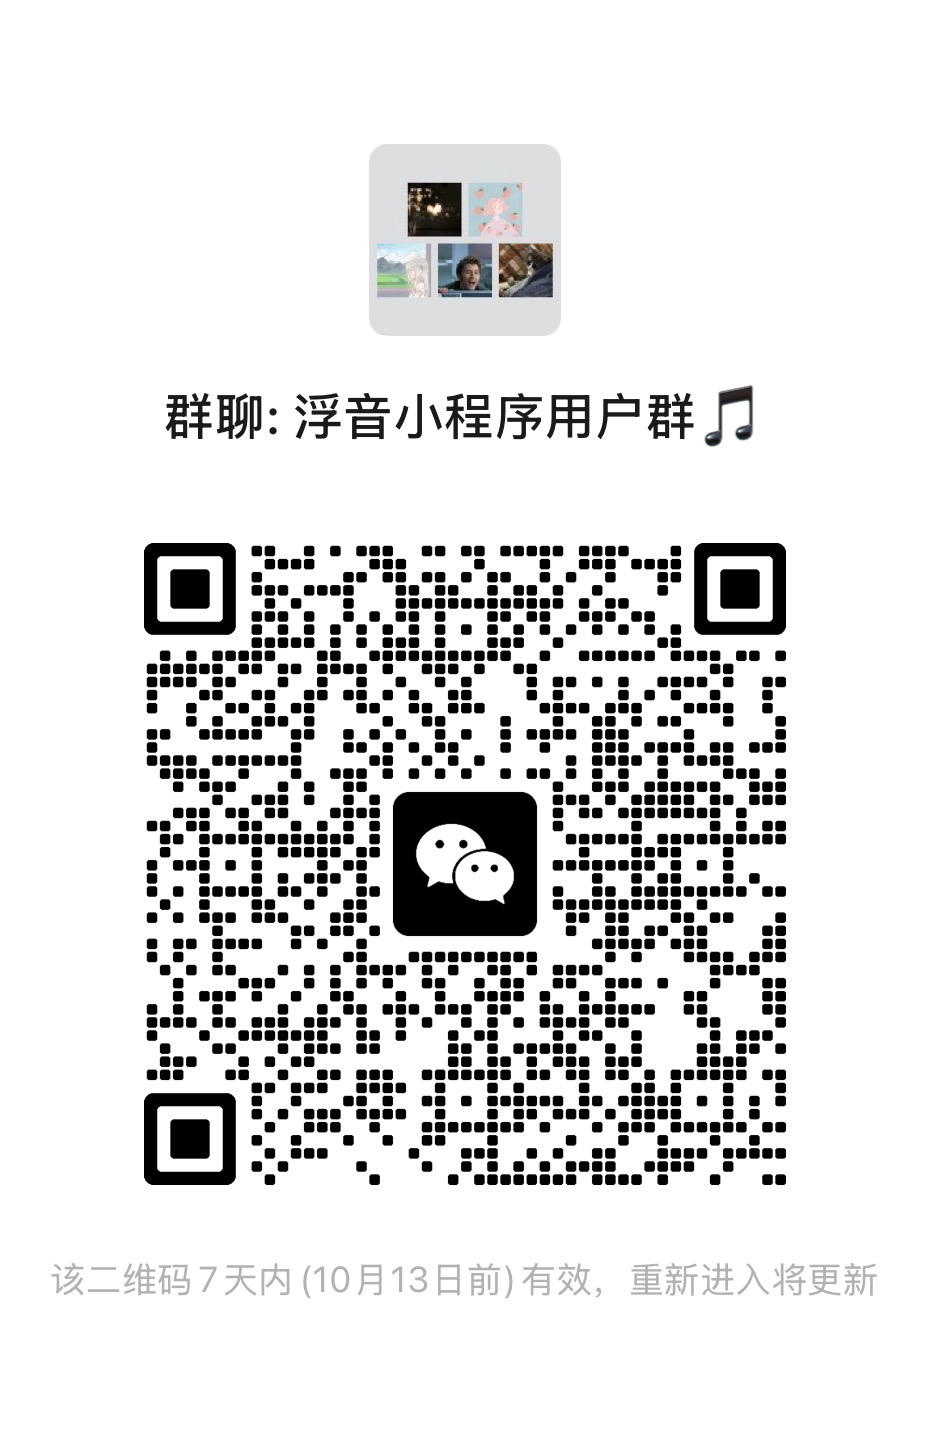
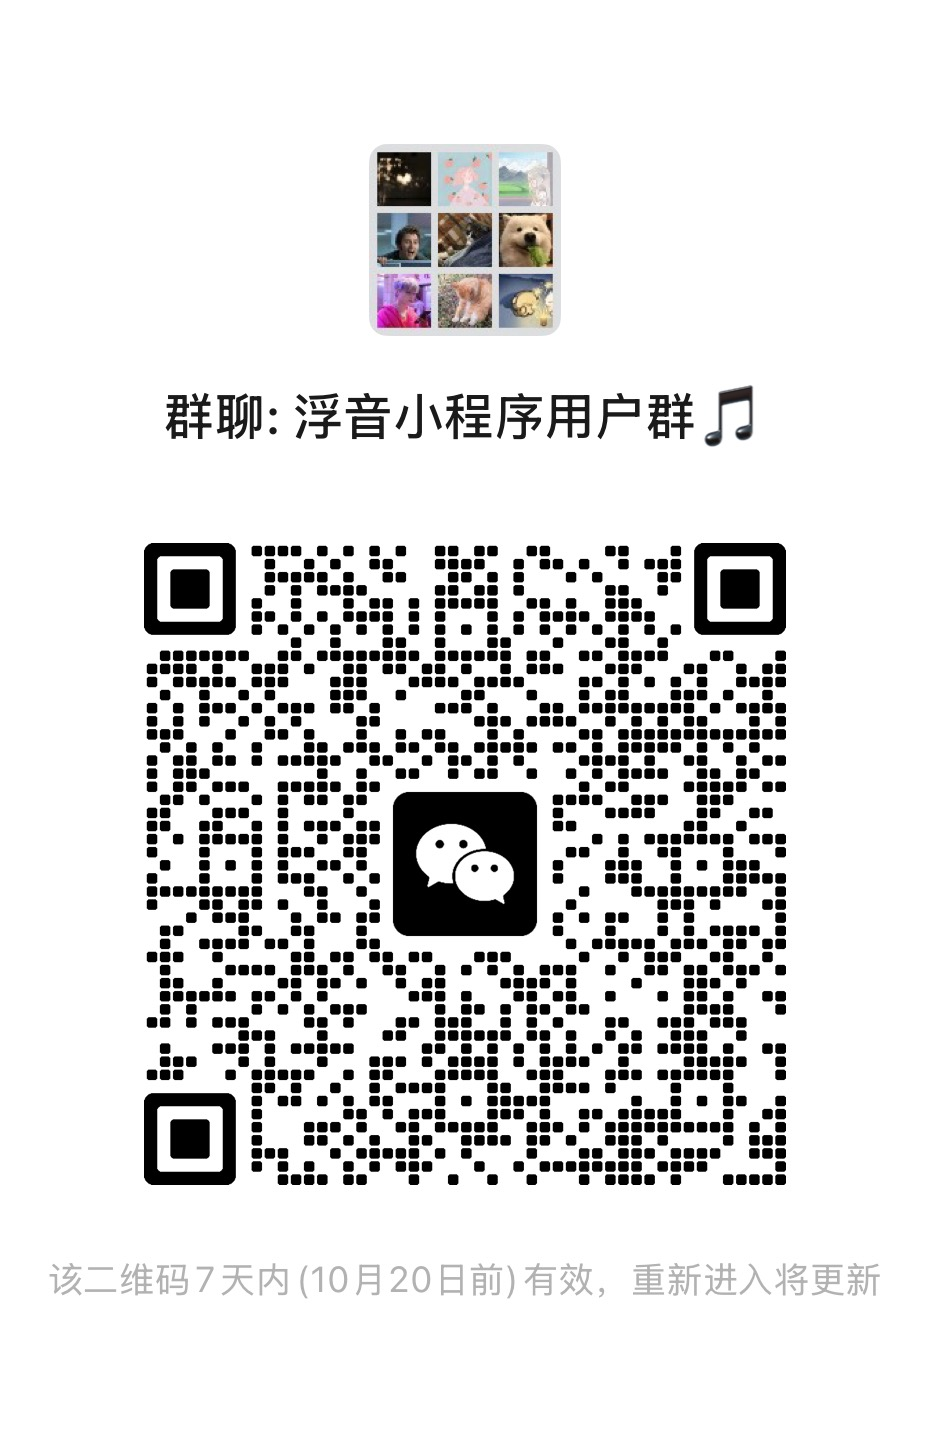
Update Fuyin user group QR

diff --git a/shared/fuyin-promo.js b/shared/fuyin-promo.js
@@ -91,7 +91,7 @@
     const groupImage = image('shared/fuyin-group-code.jpg', '浮音小程序用户群二维码', 'fy-group-code-image');
     if (groupImage) {
       const groupCode = el('figure', 'fy-code fy-group-code');
-      groupCode.append(groupImage, el('figcaption', '', '加入浮音用户群 · 有效至 10 月 13 日'));
+      groupCode.append(groupImage, el('figcaption', '', '加入浮音用户群 · 10 月 20 日前有效'));
       card.append(groupCode);
     }
     if (Array.isArray(config.screenshots) && config.screenshots.length) {
